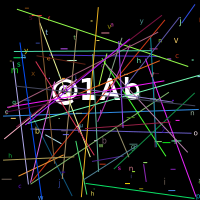
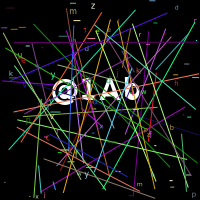
update: actual api

diff --git a/test_make_canva.js b/test_make_canva.js
@@ -3,40 +3,40 @@ import fs from "fs";
 c.registerFont("fonts/open-dyslexic.ttf", { family: "OpenDyslexic" });
 const canvas = c.createCanvas(200, 200);
 const ctx = canvas.getContext("2d");
-let exampleCaptcha = "@1Ab";
+let exampleCaptcha = "No Key?";
 ctx.fillStyle = "black";
 ctx.fillRect(0, 0, canvas.width, canvas.height);
 ctx.font = "30px OpenDyslexic";
 ctx.fillStyle = "white";
 ctx.fillText(exampleCaptcha, 50, 100);
 
-for (let i = 0; i < 50; i++) {
-  ctx.fillStyle = `rgba(${Math.random() * 255}, ${Math.random() * 255}, ${
-    Math.random() * 255
-  }, 1)`;
-  ctx.strokeStyle = `rgba(${Math.random() * 255}, ${Math.random() * 255}, ${
-    Math.random() * 255
-  }, 1)`;
-  ctx.fillRect(
-    Math.random() * 200,
-    Math.random() * 200,
-    1 * Math.round(Math.random() * 10),
-    1
-  );
-  // write a random word
-  ctx.font = `${Math.floor(Math.random() * 3) + 6}px Arial`;
-  ctx.fillText(
-    String.fromCharCode(Math.floor(Math.random() * 26) + 97),
-    Math.random() * 200,
-    Math.random() * 200
-  );
-  // connect to lines
-  ctx.beginPath();
-  ctx.moveTo(Math.random() * 200, Math.random() * 200);
-  ctx.lineTo(Math.random() * 200, Math.random() * 200);
-  ctx.stroke();
-}
-const out = fs.createWriteStream(process.cwd() + "/captcha.png");
+// for (let i = 0; i < 50; i++) {
+//   ctx.fillStyle = `rgba(${Math.random() * 255}, ${Math.random() * 255}, ${
+//     Math.random() * 255
+//   }, 1)`;
+//   ctx.strokeStyle = `rgba(${Math.random() * 255}, ${Math.random() * 255}, ${
+//     Math.random() * 255
+//   }, 1)`;
+//   ctx.fillRect(
+//     Math.random() * 200,
+//     Math.random() * 200,
+//     1 * Math.round(Math.random() * 10),
+//     1
+//   );
+// write a random word
+ctx.font = `${Math.floor(Math.random() * 3) + 6}px Arial`;
+ctx.fillText(
+  String.fromCharCode(Math.floor(Math.random() * 26) + 97),
+  Math.random() * 200,
+  Math.random() * 200
+);
+// connect to lines
+ctx.beginPath();
+ctx.moveTo(Math.random() * 200, Math.random() * 200);
+ctx.lineTo(Math.random() * 200, Math.random() * 200);
+ctx.stroke();
+
+const out = fs.createWriteStream(process.cwd() + "/404.png");
 const stream = canvas.createPNGStream();
 stream.pipe(out);
 out.on("finish", () => console.log("The PNG file was created."));

diff --git a/src/index.js b/src/index.js
@@ -1,16 +1,73 @@
 "use strict";
 import "dotenv/config";
 import express from "express";
-
+import { genCanvas } from "./gen_canvas_img.js";
+import { readFileSync } from "fs";
 const app = express();
-
+let cached = new Map();
+function genHardCaptcha() {
+  const specialChars = `!@#$%^&*()_+`.split("");
+  const alpha = `abcdefghijklmnopqrstuvwxyz`.split("");
+  let str = "";
+  for (let i = 0; i < 6; i++) {
+    if (Math.random() > 0.5) {
+      let al = alpha[Math.floor(Math.random() * alpha.length)];
+      if (Math.random() > 0.8) {
+        str += al.toUpperCase();
+      } else {
+        str += al;
+      }
+    } else {
+      str += specialChars[Math.floor(Math.random() * specialChars.length)];
+    }
+  }
+  return str;
+}
 app.get("/", (req, res) => {
   res.json({
     message: `OK`,
     status: 200,
   });
 });
-
+app.get("/example", async (req, res) => {
+  res.set({ "Content-Type": "image/png" });
+  const img = await genCanvas("example");
+  res.end(img);
+});
+app.get("/example-gen-text", (req, res) => {
+  res.json({ text: genHardCaptcha() });
+});
+app.get("/captcha/:id/render", async (req, res) => {
+  const text = cached.get(Number(req.params.id));
+  res.set({ "Content-Type": "image/png" });
+  if (!text) return res.end(readFileSync("404.png"));
+  const code = text.text;
+  const img = await genCanvas(code);
+  res.end(img);
+});
+app.post("/captcha/:id/solve", (req, res) => {
+  const d = cached.get(Number(req.params.id));
+  if (!d) return res.json({ message: `Invalid ID`, status: 400 });
+  if (req.body.text === d.text) {
+    res.json({ message: `Correct`, status: 200 });
+    cached.delete(Number(req.params.id));
+  } else {
+    res.json({ message: `Incorrect`, status: 400 });
+  }
+});
+app.post("/captcha", async (req, res) => {
+  const id = cached.size;
+  cached.set(id, {
+    created_at: Date.now(),
+    text: genHardCaptcha(),
+  });
+  res.json({
+    id,
+  });
+});
+app.get("/demo", (req, res) => {
+  // TODO: render html file here.
+});
 app.listen(3000, () => {
   console.log(`Listening on port ::3000`);
 });

diff --git a/src/gen_canvas_img.js b/src/gen_canvas_img.js
@@ -1,1 +1,43 @@
-import canvas from "canvas";
+import c from "canvas";
+
+c.registerFont("./fonts/open-dyslexic.ttf", { family: "OpenDyslexic" });
+
+export function genCanvas(word) {
+  const canvas = c.createCanvas(400, 200);
+  const ctx = canvas.getContext("2d");
+  let exampleCaptcha = word;
+  ctx.fillStyle = "black";
+  ctx.fillRect(0, 0, canvas.width, canvas.height);
+  ctx.font = "30px OpenDyslexic";
+  ctx.fillStyle = "white";
+  ctx.fillText(exampleCaptcha, 50, 100);
+
+  for (let i = 0; i < 50; i++) {
+    ctx.fillStyle = `rgba(${Math.random() * 255}, ${Math.random() * 255}, ${
+      Math.random() * 255
+    }, 1)`;
+    ctx.strokeStyle = `rgba(${Math.random() * 255}, ${Math.random() * 255}, ${
+      Math.random() * 255
+    }, 1)`;
+    ctx.fillRect(
+      Math.random() * 200,
+      Math.random() * 200,
+      1 * Math.round(Math.random() * 10),
+      1
+    );
+    // write a random word
+    ctx.font = `${Math.floor(Math.random() * 3) + 6}px Arial`;
+    ctx.fillText(
+      String.fromCharCode(Math.floor(Math.random() * 26) + 97),
+      Math.random() * 200,
+      Math.random() * 200
+    );
+    // connect to lines
+    ctx.beginPath();
+    ctx.moveTo(Math.random() * 200, Math.random() * 200);
+    ctx.lineTo(Math.random() * 200, Math.random() * 200);
+    ctx.stroke();
+  }
+  const stream = canvas.toBuffer();
+  return stream;
+}
